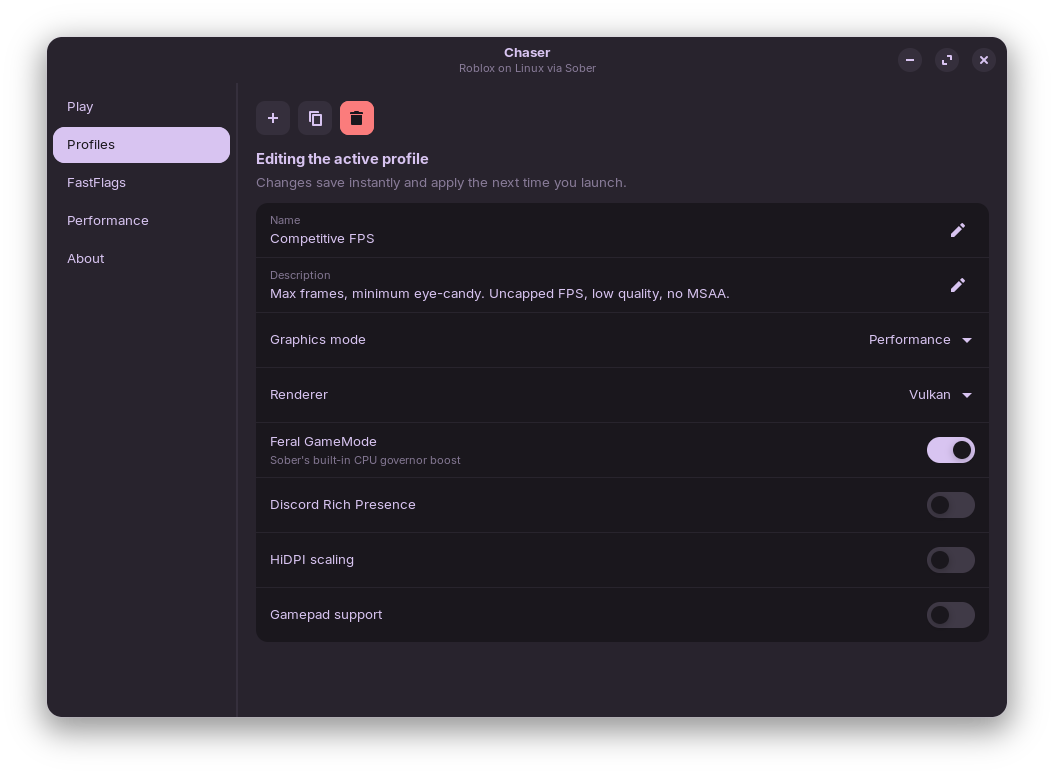
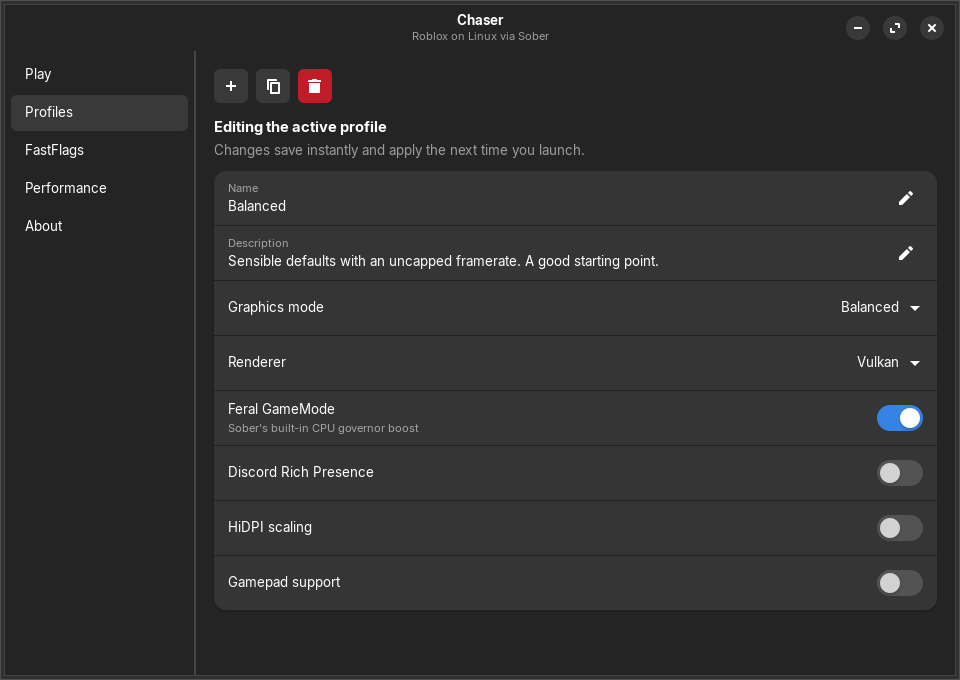
Bloxstrap-style home screen and first-run onboarding (0.1.1)
- Play page is now a launcher home: hero icon + a single "Launch
  Roblox" button that always applies the active profile before
  launching (caption says so), profile picker below, Sober status
  demoted to a footer line, banner with copyable install command
  when Sober is missing
- First-run onboarding: welcome + Sober detection + starting-preset
  picker; applies the choice to Sober immediately (CHASER_ONBOARD=1
  re-opens it)
- Presets list shared between onboarding and the Performance page
- New screenshots (captured headless via Xvfb), metainfo 0.1.1
  release notes and onboarding screenshot

diff --git a/gui/src/main.rs b/gui/src/main.rs
@@ -30,6 +30,7 @@ struct Ui {
     play_combo: adw::ComboRow,
     play_model: gtk::StringList,
     play_summary: adw::ActionRow,
+    play_caption: gtk::Label,
     // Shared working state
     slugs: RefCell<Vec<String>>,
     current: RefCell<Profile>,
@@ -52,8 +53,20 @@ struct Ui {
 }
 
 fn build_ui(app: &adw::Application) {
+    // First run = no saved state yet; decide before ensure_defaults creates it.
+    let first_run = paths::state_path().map(|p| !p.exists()).unwrap_or(false);
     if let Ok(store) = Store::open() {
         let _ = store.ensure_defaults();
+    }
+
+    let css = gtk::CssProvider::new();
+    css.load_from_string(".launch-hero { font-size: 130%; padding: 14px 44px; }");
+    if let Some(display) = gtk::gdk::Display::default() {
+        gtk::style_context_add_provider_for_display(
+            &display,
+            &css,
+            gtk::STYLE_PROVIDER_PRIORITY_APPLICATION,
+        );
     }
 
     let window = adw::ApplicationWindow::builder()
@@ -92,6 +105,7 @@ fn build_ui(app: &adw::Application) {
         play_combo: adw::ComboRow::new(),
         play_model: gtk::StringList::new(&[]),
         play_summary: adw::ActionRow::new(),
+        play_caption: gtk::Label::new(None),
         slugs: RefCell::new(Vec::new()),
         current: RefCell::new(Profile::new("Balanced")),
         current_slug: RefCell::new(String::new()),
@@ -128,7 +142,36 @@ fn build_ui(app: &adw::Application) {
     ui.refresh_profiles();
     ui.load_active();
     window.present();
+
+    // Bloxstrap-style onboarding on first run (CHASER_ONBOARD=1 forces it for QA).
+    if first_run || std::env::var("CHASER_ONBOARD").is_ok() {
+        show_onboarding(&window, &ui);
+    }
 }
+
+/// The four built-in presets, shared by onboarding and the Performance page.
+const PRESETS: [(&str, &str, &str); 4] = [
+    (
+        "competitive-fps",
+        "Competitive FPS",
+        "Max frames, minimum eye-candy — uncapped FPS, low quality, no MSAA",
+    ),
+    (
+        "balanced",
+        "Balanced",
+        "Sensible defaults with an uncapped framerate — a good starting point",
+    ),
+    (
+        "cinematic",
+        "Cinematic",
+        "Highest fidelity — quality mode, full effects",
+    ),
+    (
+        "potato",
+        "Potato",
+        "Rescue mode for weak GPUs — voxel lighting, lowest textures, no shadows",
+    ),
+];
 
 // ---------------------------------------------------------------------------
 // Pages
@@ -137,21 +180,56 @@ fn build_ui(app: &adw::Application) {
 fn build_play_page(ui: &Rc<Ui>) -> gtk::Widget {
     let page = vbox();
 
-    let sober_group = adw::PreferencesGroup::new();
-    sober_group.set_title("Sober");
-    let status_row = adw::ActionRow::new();
-    status_row.set_title("Status");
-    status_row.set_subtitle(&sober_status_text());
-    sober_group.add(&status_row);
-    let path_row = adw::ActionRow::new();
-    path_row.set_title("Config");
-    path_row.set_subtitle(&SoberInstall::config_path().display().to_string());
-    sober_group.add(&path_row);
-    page.append(&sober_group);
+    // Only revealed when Sober is missing.
+    let banner = adw::Banner::new("Sober is not installed — Chaser needs it to launch Roblox");
+    banner.set_button_label(Some("Copy install command"));
+    banner.set_revealed(!SoberInstall::is_installed());
+    {
+        let ui = ui.clone();
+        banner.connect_button_clicked(move |_| {
+            if let Some(display) = gtk::gdk::Display::default() {
+                display
+                    .clipboard()
+                    .set_text("flatpak install flathub org.vinegarhq.Sober");
+                ui.toast("Copied — run it in a terminal, then restart Chaser");
+            }
+        });
+    }
+    page.append(&banner);
+
+    // Hero: icon + one unambiguous launch button, Bloxstrap-style.
+    let hero = gtk::Box::new(gtk::Orientation::Vertical, 12);
+    hero.set_valign(gtk::Align::Center);
+    hero.set_vexpand(true);
+    hero.set_margin_top(12);
+    hero.set_margin_bottom(12);
+
+    if let Some(texture) = app_icon_texture() {
+        let icon = gtk::Image::from_paintable(Some(&texture));
+        icon.set_pixel_size(112);
+        hero.append(&icon);
+    }
+
+    let launch_btn = gtk::Button::new();
+    let content = adw::ButtonContent::new();
+    content.set_icon_name("media-playback-start-symbolic");
+    content.set_label("Launch Roblox");
+    launch_btn.set_child(Some(&content));
+    launch_btn.add_css_class("suggested-action");
+    launch_btn.add_css_class("pill");
+    launch_btn.add_css_class("launch-hero");
+    launch_btn.set_halign(gtk::Align::Center);
+    hero.append(&launch_btn);
+
+    ui.play_caption.add_css_class("dim-label");
+    ui.play_caption.set_halign(gtk::Align::Center);
+    hero.append(&ui.play_caption);
+
+    page.append(&hero);
 
     let prof_group = adw::PreferencesGroup::new();
-    prof_group.set_title("Active profile");
-    ui.play_combo.set_title("Profile");
+    prof_group.set_title("Profile");
+    ui.play_combo.set_title("Active profile");
     ui.play_combo.set_model(Some(&ui.play_model));
     ui.play_summary.set_title("Summary");
     prof_group.add(&ui.play_combo);
@@ -176,32 +254,142 @@ fn build_play_page(ui: &Rc<Ui>) -> gtk::Widget {
         });
     }
 
-    let btns = gtk::Box::new(gtk::Orientation::Horizontal, 8);
-    let launch_btn = gtk::Button::with_label("Apply & Launch");
-    launch_btn.add_css_class("suggested-action");
-    launch_btn.add_css_class("pill");
-    let apply_btn = gtk::Button::with_label("Apply only");
-    apply_btn.add_css_class("pill");
-    btns.append(&launch_btn);
-    btns.append(&apply_btn);
-    page.append(&btns);
-
     {
         let ui = ui.clone();
         launch_btn.connect_clicked(move |_| match ui.apply_current_to_sober(true) {
-            Ok(name) => ui.toast(&format!("Applied '{name}' and launched Sober")),
-            Err(e) => ui.toast(&format!("Error: {e}")),
-        });
-    }
-    {
-        let ui = ui.clone();
-        apply_btn.connect_clicked(move |_| match ui.apply_current_to_sober(false) {
-            Ok(name) => ui.toast(&format!("Applied '{name}'. Restart Sober to see changes.")),
+            Ok(name) => ui.toast(&format!("Applied '{name}' — launching Roblox")),
             Err(e) => ui.toast(&format!("Error: {e}")),
         });
     }
 
+    let status = gtk::Label::new(Some(&format!(
+        "{} · {}",
+        sober_status_text(),
+        SoberInstall::config_path().display()
+    )));
+    status.add_css_class("dim-label");
+    status.add_css_class("caption");
+    status.set_wrap(true);
+    status.set_halign(gtk::Align::Center);
+    page.append(&status);
+
     scrolled(&page)
+}
+
+/// The bundled app icon as a paintable (works even when not installed system-wide).
+fn app_icon_texture() -> Option<gtk::gdk::Texture> {
+    let bytes = glib::Bytes::from_static(include_bytes!("../../data/icons/org.chaser.Chaser.svg"));
+    gtk::gdk::Texture::from_bytes(&bytes).ok()
+}
+
+/// First-run welcome: check Sober, pick a starting preset, apply it right away.
+fn show_onboarding(parent: &adw::ApplicationWindow, ui: &Rc<Ui>) {
+    let dialog = adw::Window::builder()
+        .transient_for(parent)
+        .modal(true)
+        .default_width(540)
+        .default_height(640)
+        .title("Welcome to Chaser")
+        .build();
+
+    let toolbar = adw::ToolbarView::new();
+    toolbar.add_top_bar(&adw::HeaderBar::new());
+
+    let content = vbox();
+
+    let hero = gtk::Box::new(gtk::Orientation::Vertical, 8);
+    if let Some(texture) = app_icon_texture() {
+        let icon = gtk::Image::from_paintable(Some(&texture));
+        icon.set_pixel_size(96);
+        hero.append(&icon);
+    }
+    let title = gtk::Label::new(Some("Welcome to Chaser"));
+    title.add_css_class("title-1");
+    hero.append(&title);
+    let blurb = gtk::Label::new(Some(
+        "The Bloxstrap of Linux — profiles, FastFlags and performance presets for Sober.",
+    ));
+    blurb.add_css_class("dim-label");
+    blurb.set_wrap(true);
+    blurb.set_justify(gtk::Justification::Center);
+    hero.append(&blurb);
+    content.append(&hero);
+
+    let check = adw::PreferencesGroup::new();
+    let sober_row = adw::ActionRow::new();
+    sober_row.set_title("Sober");
+    sober_row.set_subtitle(&sober_status_text());
+    let installed = SoberInstall::is_installed();
+    sober_row.add_prefix(&gtk::Image::from_icon_name(if installed {
+        "emblem-ok-symbolic"
+    } else {
+        "dialog-warning-symbolic"
+    }));
+    check.add(&sober_row);
+    content.append(&check);
+
+    let choose = adw::PreferencesGroup::new();
+    choose.set_title("Pick your starting profile");
+    choose.set_description(Some("You can switch or customize it anytime."));
+    let selected = Rc::new(RefCell::new("balanced".to_string()));
+    let mut group_leader: Option<gtk::CheckButton> = None;
+    for (slug, label, desc) in PRESETS {
+        let row = adw::ActionRow::new();
+        row.set_title(label);
+        row.set_subtitle(desc);
+        let radio = gtk::CheckButton::new();
+        radio.set_valign(gtk::Align::Center);
+        match &group_leader {
+            Some(leader) => radio.set_group(Some(leader)),
+            None => group_leader = Some(radio.clone()),
+        }
+        if slug == "balanced" {
+            radio.set_active(true);
+        }
+        {
+            let selected = selected.clone();
+            radio.connect_toggled(move |r| {
+                if r.is_active() {
+                    *selected.borrow_mut() = slug.to_string();
+                }
+            });
+        }
+        row.add_prefix(&radio);
+        row.set_activatable_widget(Some(&radio));
+        choose.add(&row);
+    }
+    content.append(&choose);
+
+    // Pinned bottom bar so the button is always visible regardless of scroll.
+    let go = gtk::Button::with_label("Get started");
+    go.add_css_class("suggested-action");
+    go.add_css_class("pill");
+    go.add_css_class("launch-hero");
+    go.set_halign(gtk::Align::Center);
+    go.set_margin_top(10);
+    go.set_margin_bottom(14);
+    toolbar.add_bottom_bar(&go);
+    {
+        let ui = ui.clone();
+        let dialog = dialog.clone();
+        go.connect_clicked(move |_| {
+            let slug = selected.borrow().clone();
+            if let Ok(store) = Store::open() {
+                let _ = store.set_active(&slug);
+            }
+            ui.refresh_profiles();
+            ui.load_active();
+            match ui.apply_current_to_sober(false) {
+                Ok(name) => ui.toast(&format!("'{name}' is live — hit Launch Roblox to play")),
+                Err(e) => ui.toast(&format!("Profile set. Couldn't write Sober's config: {e}")),
+            }
+            dialog.close();
+        });
+    }
+
+    toolbar.set_content(Some(&scrolled(&content)));
+    dialog.set_content(Some(&toolbar));
+    dialog.present();
 }
 
 fn build_profiles_page(ui: &Rc<Ui>) -> gtk::Widget {
@@ -380,16 +568,7 @@ fn build_performance_page(ui: &Rc<Ui>) -> gtk::Widget {
     presets.set_description(Some(
         "Switch the active profile to a preset and write it to Sober.",
     ));
-    for (slug, label, sub) in [
-        (
-            "competitive-fps",
-            "Competitive FPS",
-            "Max frames, minimal effects",
-        ),
-        ("balanced", "Balanced", "Sensible defaults, uncapped FPS"),
-        ("cinematic", "Cinematic", "Highest fidelity"),
-        ("potato", "Potato", "Rescue mode for weak GPUs"),
-    ] {
+    for (slug, label, sub) in PRESETS {
         let row = adw::ActionRow::new();
         row.set_title(label);
         row.set_subtitle(sub);
@@ -551,6 +730,10 @@ impl Ui {
             .set_text(&fflags_to_pretty(&profile.fflags));
         self.env_view.buffer().set_text(&env_to_text(&profile.env));
         self.play_summary.set_subtitle(&describe(&profile));
+        self.play_caption.set_text(&format!(
+            "Applies '{}' to Sober, then starts Roblox",
+            profile.name
+        ));
 
         *self.current.borrow_mut() = profile;
         self.loading.set(false);

diff --git a/README.md b/README.md
@@ -8,12 +8,16 @@
 
 Sober is a great *engine*: it runs the x86-64 Android build of Roblox natively on Linux, sidestepping the Hyperion anti-cheat that killed the Wine path, and it's genuinely fast. But by design it's a **minimal runtime** — VinegarHQ deliberately leaves the launcher/config layer to the community. Chaser is that missing layer, doing for Sober what Bloxstrap does for the Windows client: **switchable profiles, a curated FastFlag catalog, one-click performance presets, launch orchestration, and automatic config backups** — without ever touching the runtime or the Roblox client itself.
 
-![Chaser — Play](docs/play.png)
+| The home screen | First-run onboarding |
+|---|---|
+| ![Chaser — Play](docs/play.png) | ![Onboarding](docs/onboarding.png) |
 
 ---
 
 ## Features
 
+- **One-button launch** — *Launch Roblox* always writes the active profile to Sober first, so what you see is what you play.
+- **First-run onboarding** — checks your Sober install and sets you up with a starting preset in one click, Bloxstrap-style.
 - **Profiles** — named bundles of graphics mode, renderer, GameMode/RPC/HiDPI/gamepad toggles, FastFlags, and launch env. Switch between them in one click.
 - **Built-in presets** — *Competitive FPS*, *Balanced*, *Cinematic*, and *Potato* (rescue mode for weak GPUs), ready to go.
 - **Curated FastFlag catalog** — real, risk-tagged engine flags with plain-English descriptions, plus a raw JSON editor for power users.